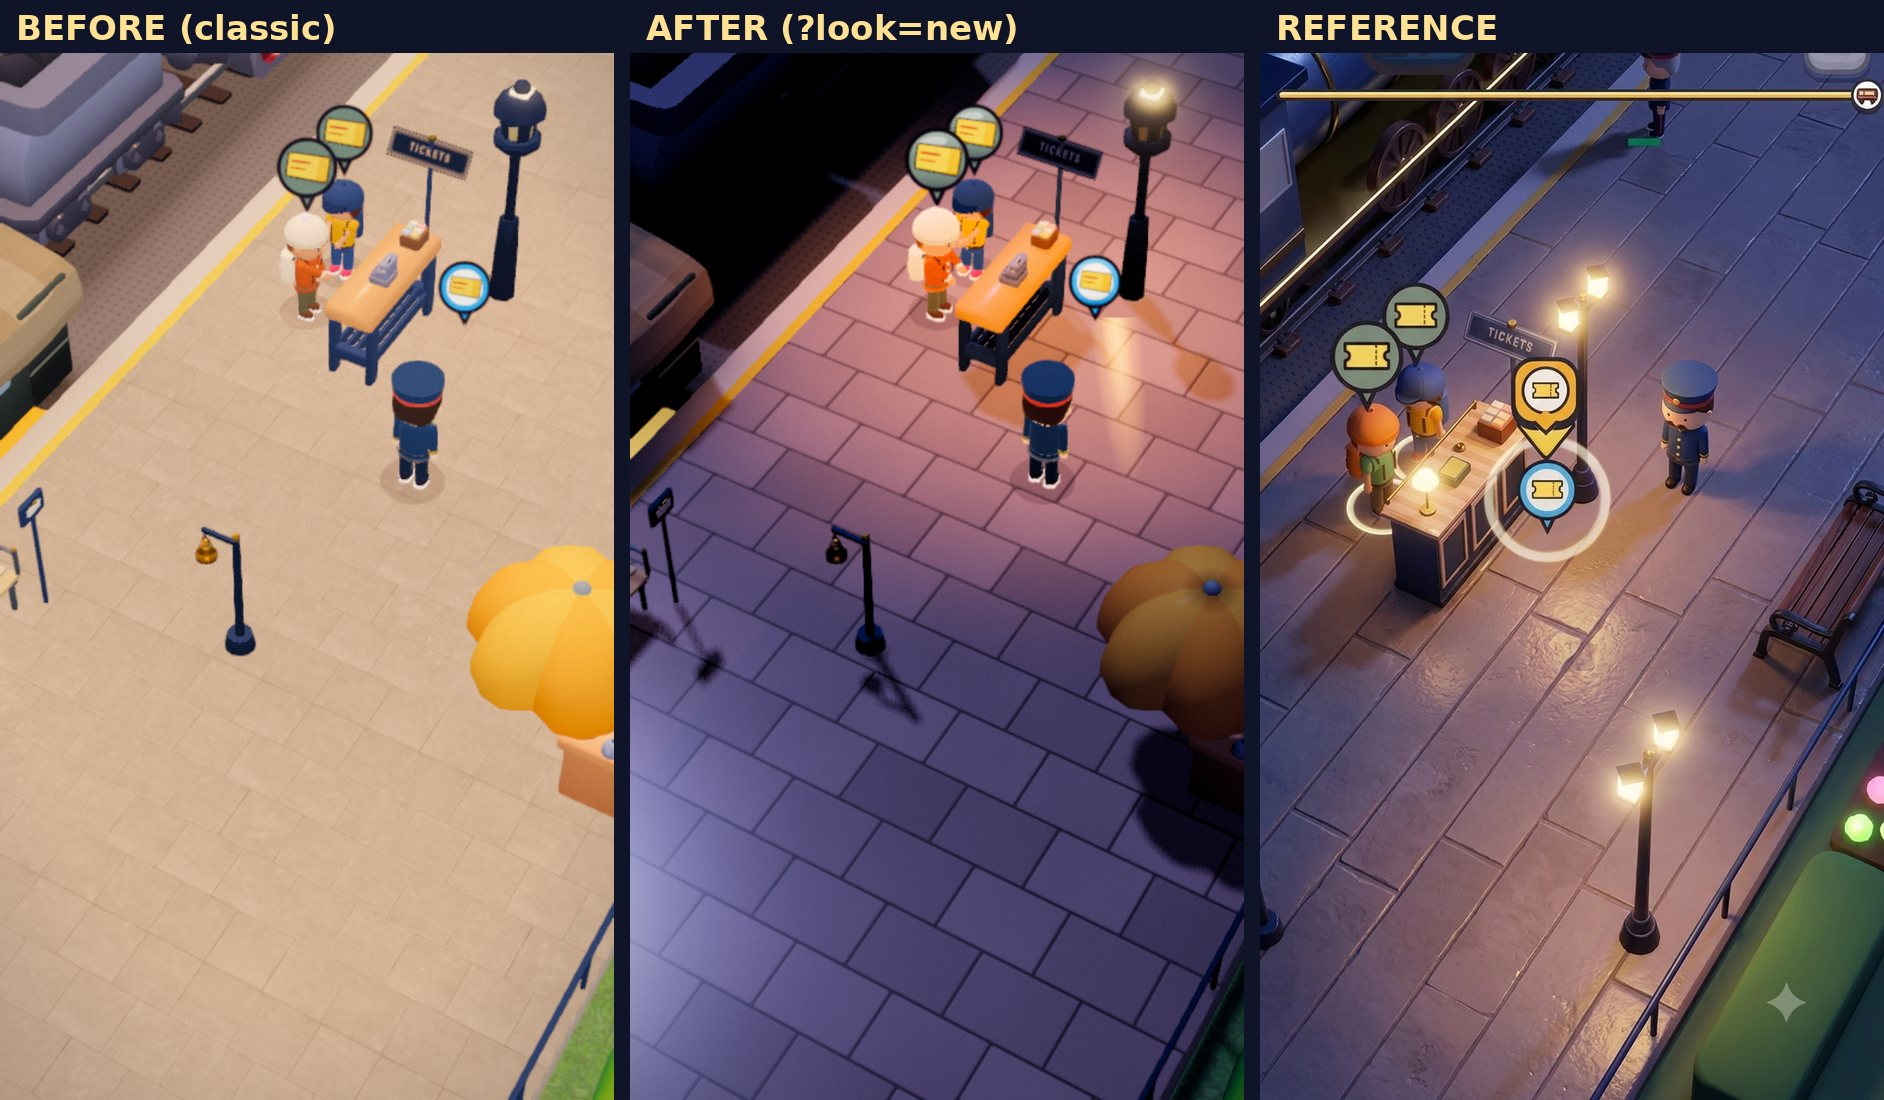
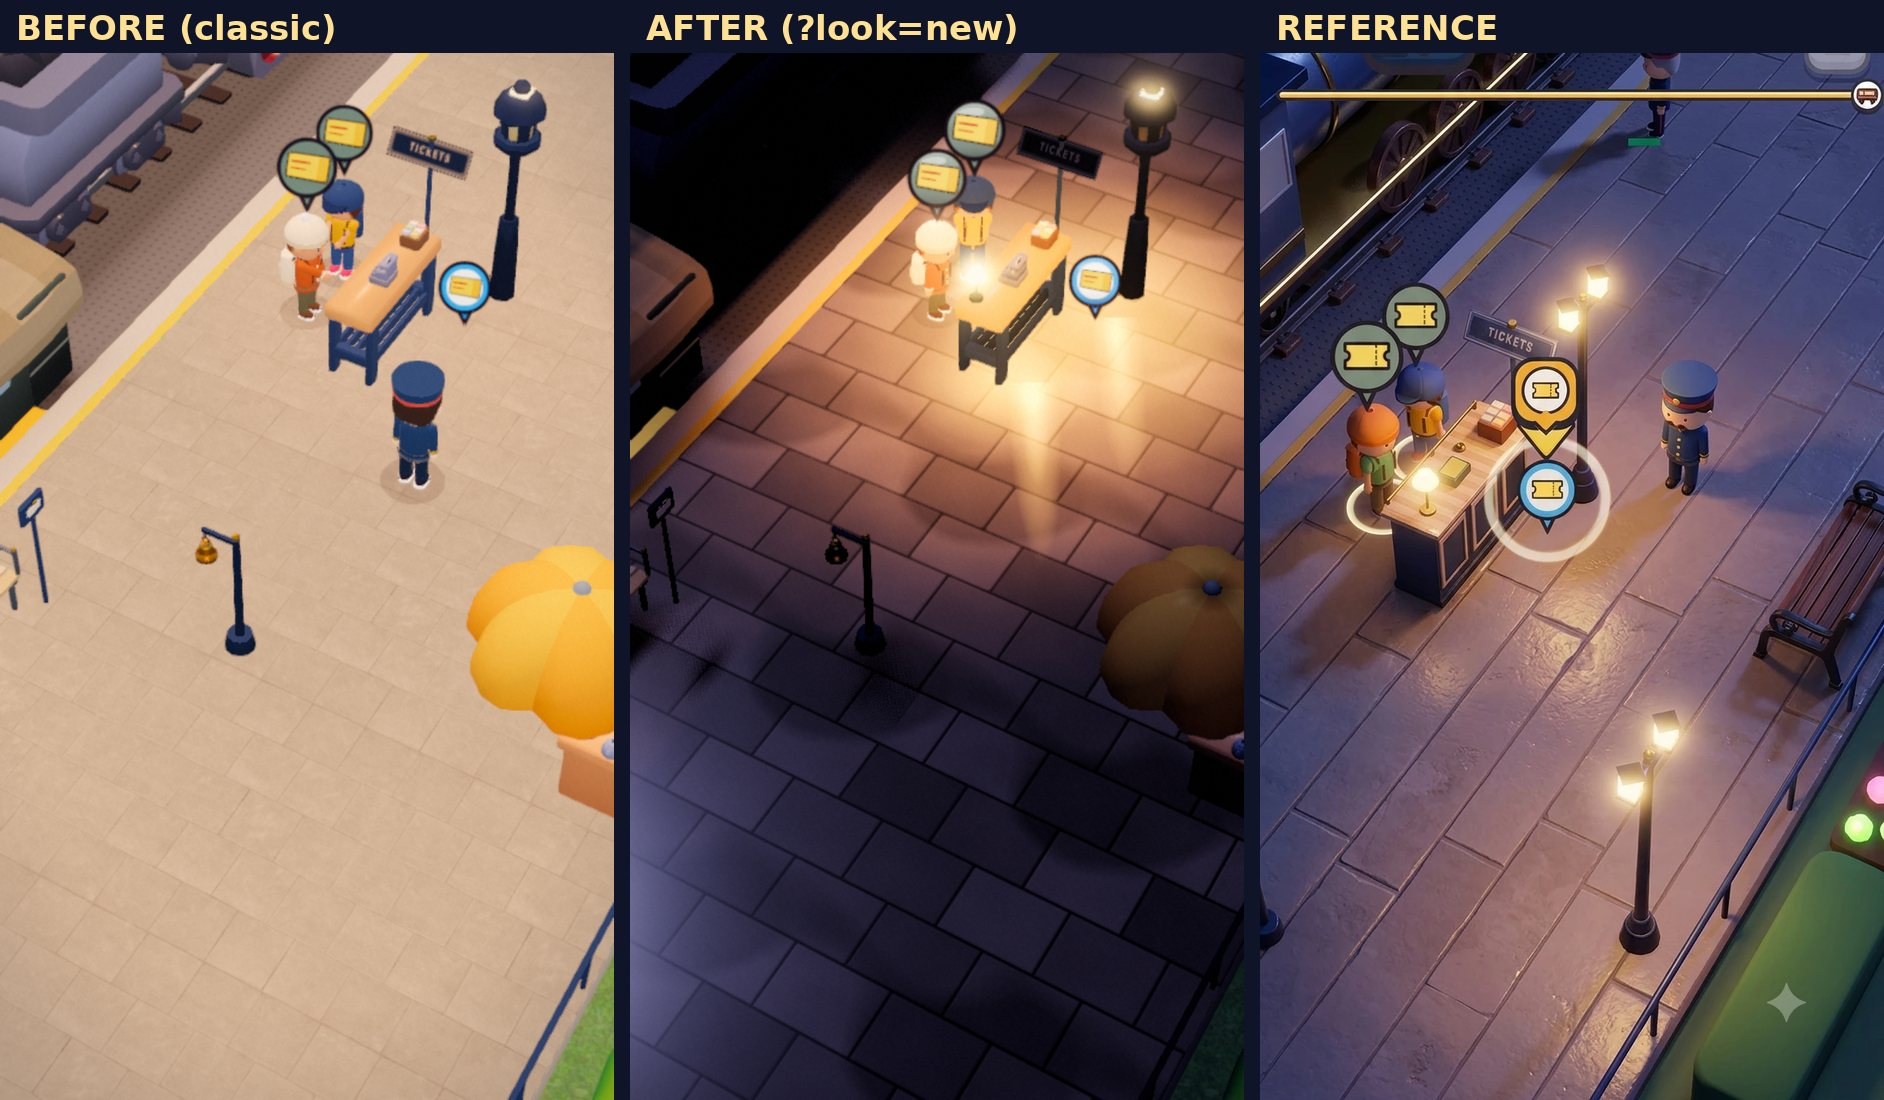
Visual overhaul: the second pass in the report, refreshed comparisons
Claude-Session: https://claude.ai/code/session_01533shm6GB9MQP97M3m8LYR

Changed region(s): [[0.3079, 0.0309, 0.6773, 1.0], [0.3386, 0.0309, 0.4002, 0.0927], [0.3079, 0.2164, 0.3694, 0.2782]]

diff --git a/docs/art/REPORT.md b/docs/art/REPORT.md
@@ -5,8 +5,8 @@ Settings → five taps on the build line → Debug → "New look". The classic l
 Play link (opens in the new look): https://claude.ai/artifact/9YoKmNwJmHWG5UsYgJrpdY · Android: release
 `android-look-N` ("Night Express Look", `com.hopnop.nightexpress.look`).
 
-**Status: the foundation is in; the slice is not yet at the references' quality.** The owner's review (24 Nov) lists
-what is short: floors, lamp pools, value contrast, Riviera sun streaks, the outside. Those are the next pass (§6).
+**Status (24 Nov, second pass):** the owner's five priorities are done (§8), Route 1 is still byte-identical in the
+pacing simulator, and the Riviera revamp has begun (docs/art/RIVIERA_REVAMP.md: stage 1 and the start of stage 2).
 
 ## 1. Audit
 
@@ -110,3 +110,25 @@ looks (one bunk valance moved 1 cm in the new look only).
 - C (rare): events, critic, ceremonies, postcards: 1–2 sessions.
 - The Riviera revamp the owner asked for (new carriage line-up and upgrade lines, tropical kit, station): 4–6 sessions
   on its own, plus a new pacing pass (it changes Route 2's gameplay on purpose).
+
+## 8. Second pass (owner's review, 24 Nov)
+1. **Floors:** drawn wood grain with knots along every board (`plank`, `plankWorn` layers, art/textures/build_stylized.py)
+   and five board tones a tier; plush runners and carpets (`fabric`); station flags with a wide tone spread, a stone
+   speckle and dark wet patches. The new look swaps the layers centrally (`LOOK_DETAIL_SWAP`).
+2. **Lamp pools:** a warm pool decal under every platform lamp (additive, can only add light) on top of the bake, and a
+   brass desk lamp with its own pool on the ticket counter.
+3. **Value contrast:** a darker, less blue night (moon 0.95, hemisphere 0.62), warm lamps stronger, saturation 1.08.
+4. **Riviera sun:** every window on the sun's side throws a slanted warm patch on the floor, stopped by the first wall.
+   People keep their blob shadow on every tier.
+5. **Outside:** long-grass tufts and more flowers over every stretch, greener grass; the Riviera's sea sparkles in the sun.
+- **The end of the train:** the rear deck stays on a finished train, with deck chairs and plants (palms on the coast).
+- **Phone glitch (Look APK):** phones in the new look draw no post-processing and no per-frame shadow (bloom and the
+  following shadow were the only things the Look APK did differently); to confirm on the device.
+- **Proof:** Route 1 pacing, 2 seeds, log and csv byte-identical to the baseline. 595 tests; geometry audit 0/0 on
+  Route 1 in both looks; on the Riviera 0 clipping and **3 coplanar faces in the Seafood Diner (a chair seat, tiers 1–3),
+  new with the revamp's carriage order: to fix next.**
+- **Riviera revamp so far:** the owner's line-up (Lobby, Smoothie Bar, Pool, Beach Lounge, Sleeper, Diner, Spa, Kids,
+  Honeymoon), Driftwood → Bamboo → Tiki Paradise on every carriage (no Royal Suites), upgrades shifted with each
+  carriage's new place; a Blender-modelled tropical kit of 15 pieces (art/blender/tropical_kit.py); thatched eaves,
+  leis over the windows and tiki torches on the platforms. Next: furnish each carriage per tier with the kit (the
+  Beach Lounge's loungers and big windows first), the station, back rooms, then a Route 2 pacing pass.
